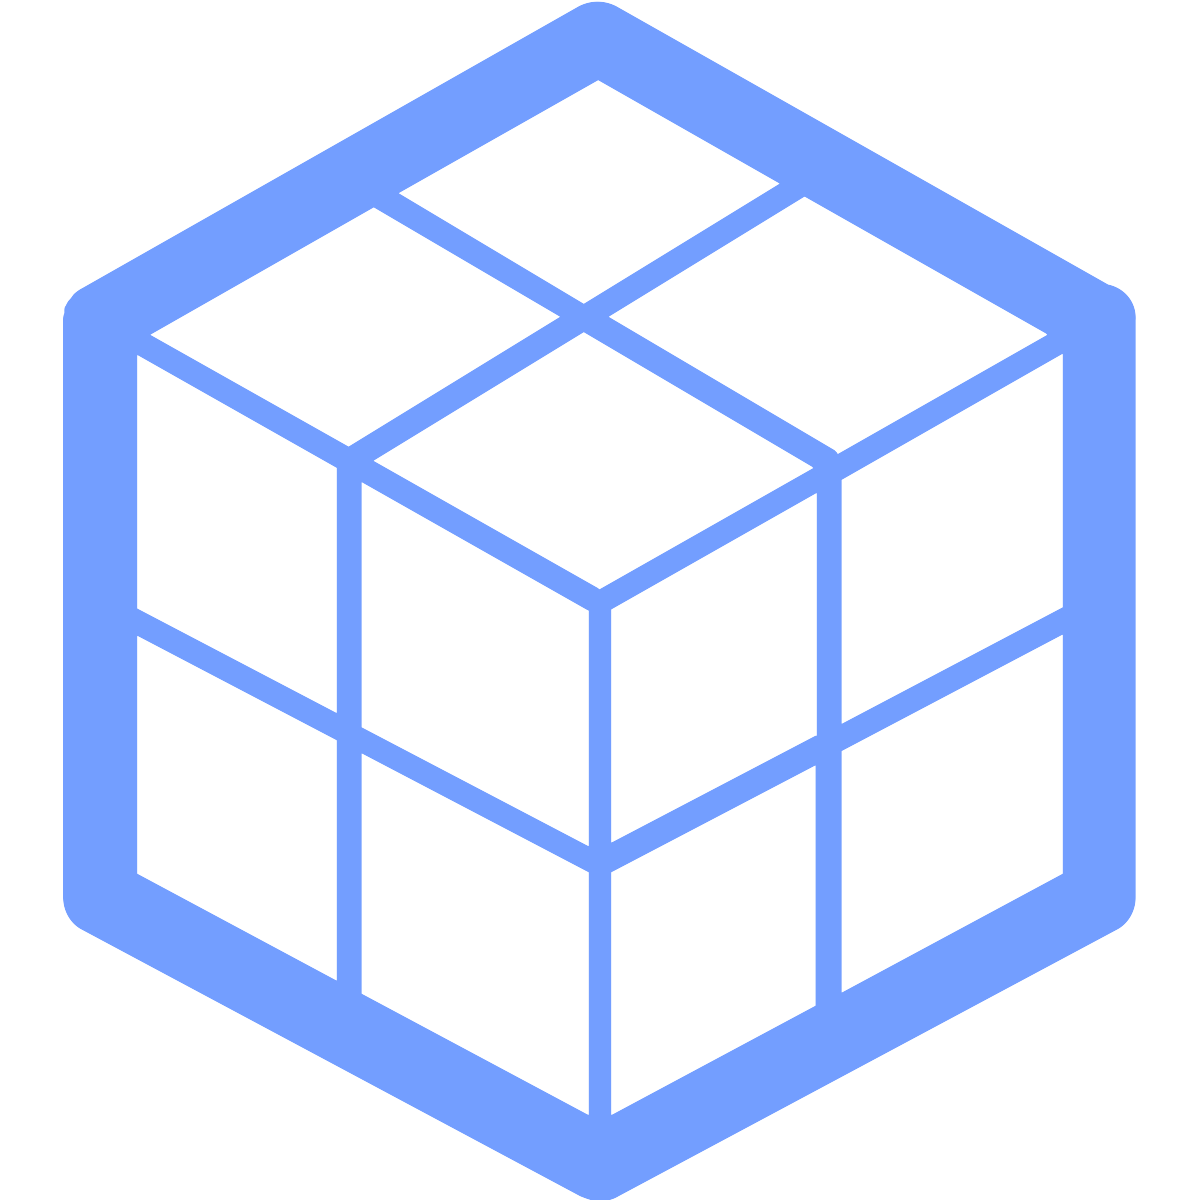
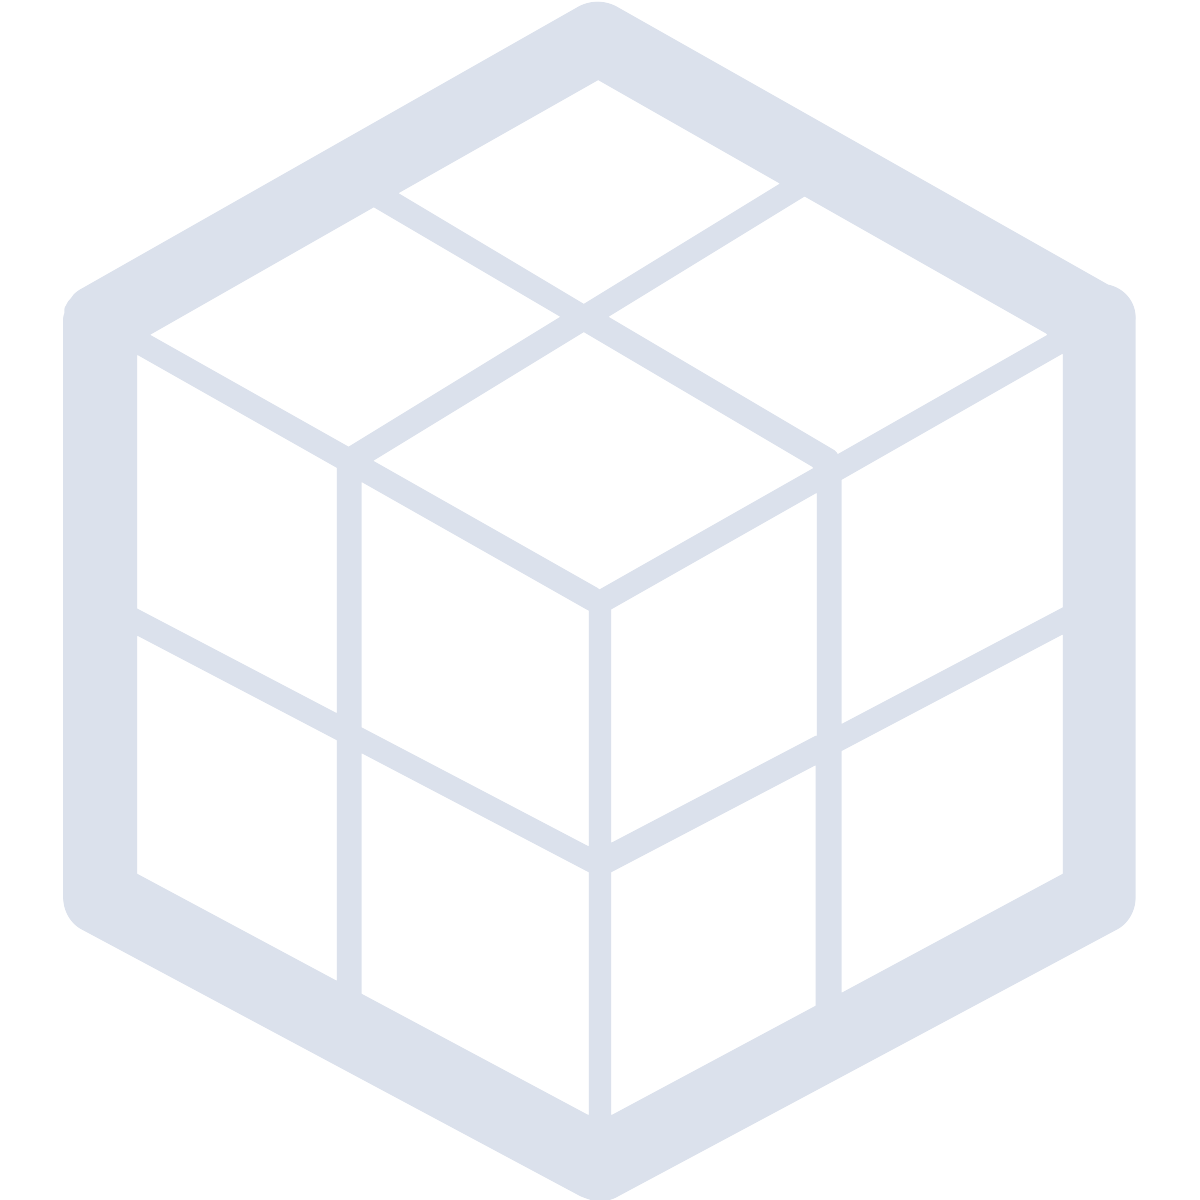
change design

Changed region(s): [[0.0308, 0.0, 0.9558, 1.0]]

diff --git a/app/index.html b/app/index.html
@@ -21,8 +21,16 @@
 
 <div class="spacer"></div>
 <div class="message">
-    <svg width="49" height="51" style="min-height:51px" xmlns="http://www.w3.org/2000/svg">
-        <path d="M3.9468 10.0288L20.5548.995c2.4433-1.3267 5.45-1.3267 7.8936 0l16.6078 9.0338C47.4966 11.3585 49 13.8102 49 16.4666V34.534c0 2.6537-1.5034 5.1082-3.9438 6.438l-16.6078 9.0307c-2.4435 1.3297-5.4503 1.3297-7.8937 0L3.9467 40.972C1.5035 39.642 0 37.1876 0 34.534V16.4667c0-2.6564 1.5034-5.108 3.9468-6.4378z" class="app-icon" fill-rule="evenodd"></path></svg>
+
+    <svg width="90px" height="90px" viewBox="0 0 90 90" version="1.1" xmlns="http://www.w3.org/2000/svg" xmlns:xlink="http://www.w3.org/1999/xlink">
+        <!-- Generator: Sketch 49 (51002) - http://www.bohemiancoding.com/sketch -->
+        <g id="Page-1" stroke="none" stroke-width="1" fill="none" fill-rule="evenodd">
+            <g id="noun_88264_DBE1EC" fill="#DBE1EC" fill-rule="nonzero">
+                <polygon id="Shape" points="26.5 89.6 0.4 63.5 0.4 26.5 26.5 0.4 63.5 0.4 89.6 26.5 89.6 63.5 63.5 89.6"></polygon>
+            </g>
+        </g>
+    </svg>
+
     <div class="message__title"> KI Blockchain Explorer </div>
 
     <form name="search_form" ng-controller="mainCtrl" ng-submit="processRequest()"  class="navbar-form navbar-right">

diff --git a/app/styles/main.css b/app/styles/main.css
@@ -332,3 +332,8 @@ canvas{ display: block; vertical-align: bottom; }
   font-size: 2em;
   margin-top:0px;
 }
+
+#content
+{
+  margin-top:40px;
+}
